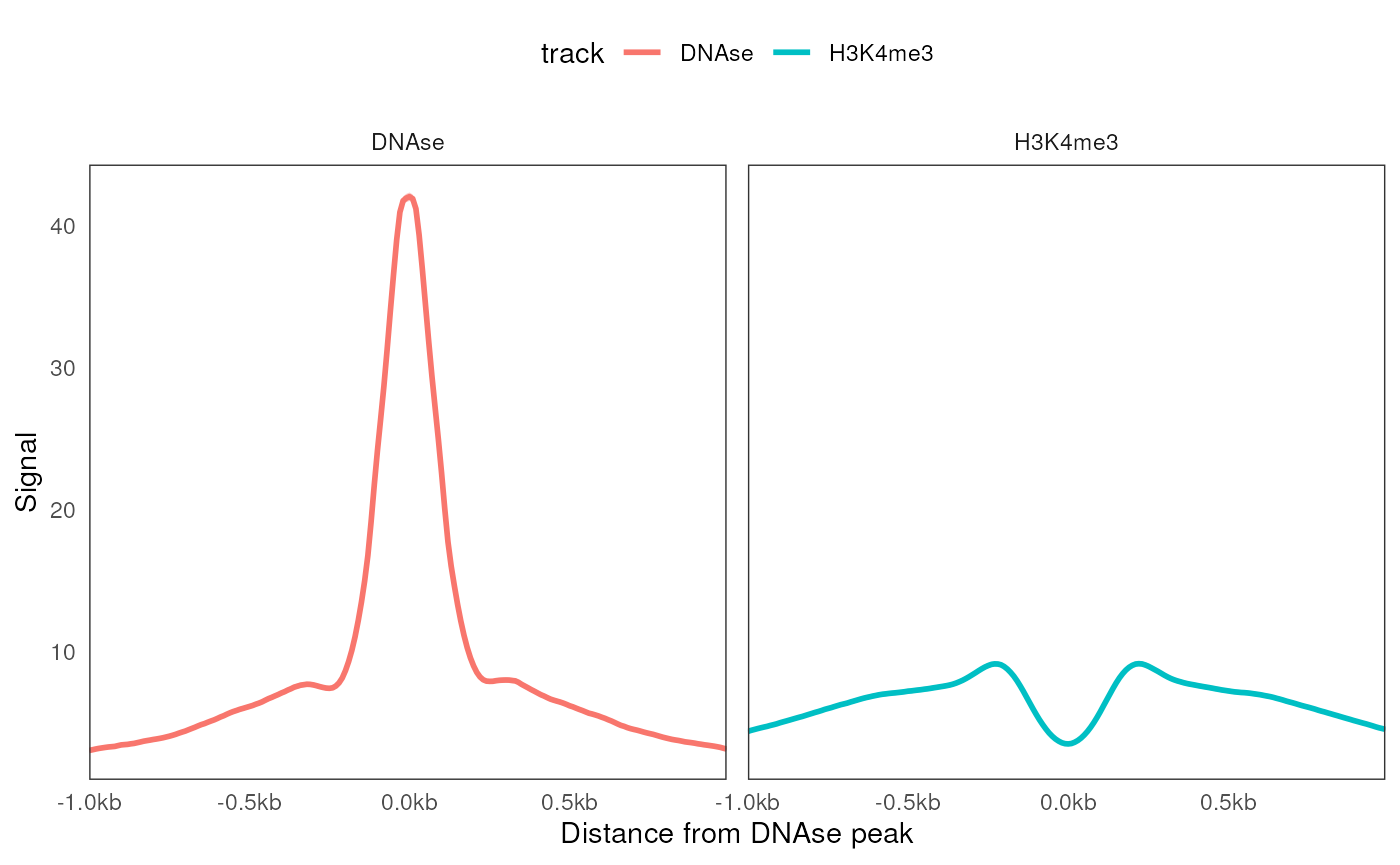
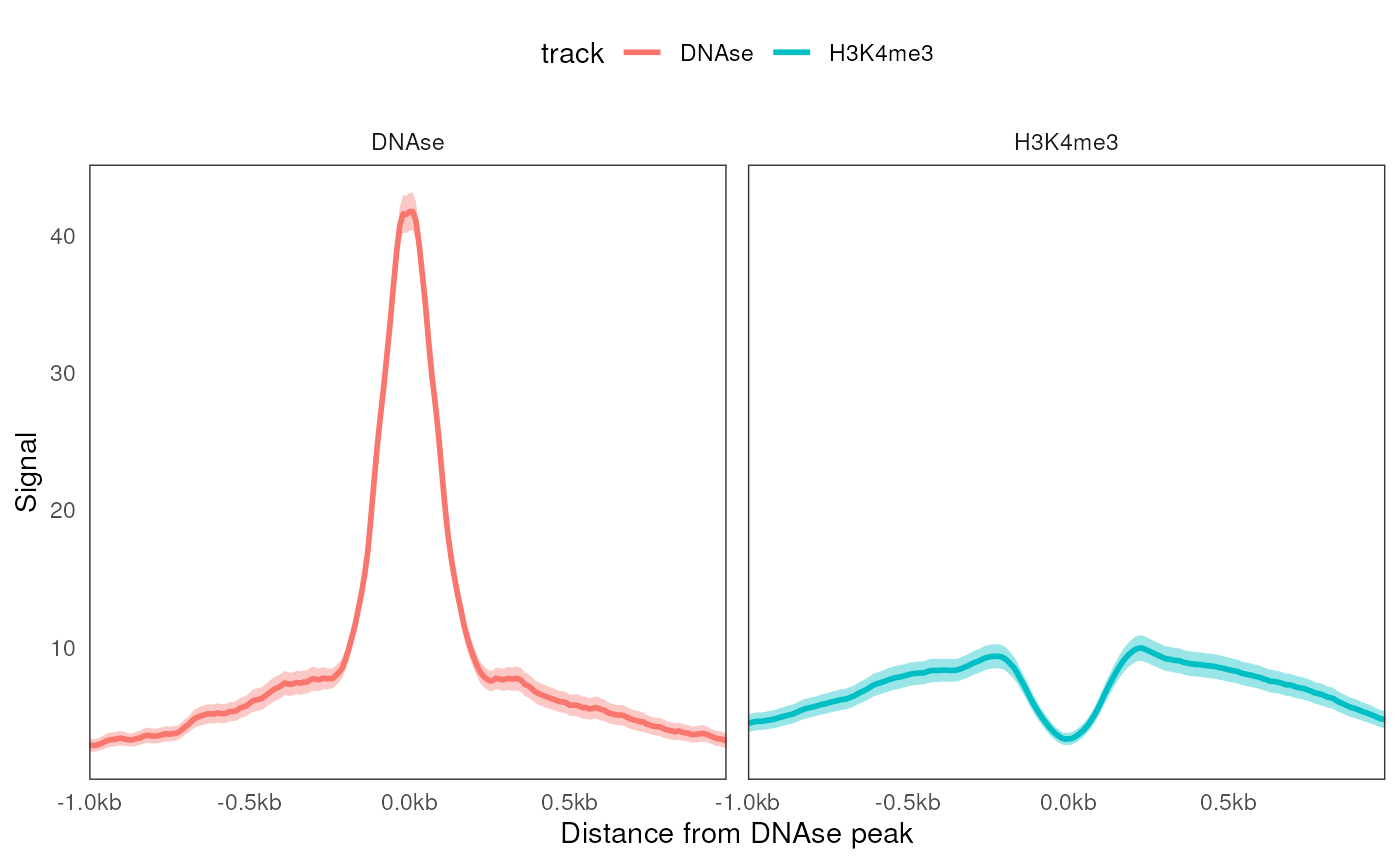
Deploying to gh-pages from @ js2264/Bioc2024tidyworkshop@06afe619553caf987c6d6c587669c05ac4f9fde3 🚀

diff --git a/articles/workshop.html b/articles/workshop.html
@@ -831,18 +831,18 @@ features<a class="anchor" aria-label="anchor" href="#creating-a-coverageexperime
 <span>    cohesin <span class="op">=</span> <span class="fu"><a href="https://rdrr.io/r/base/system.file.html" class="external-link">system.file</a></span><span class="op">(</span><span class="st">"extdata"</span>, <span class="st">"Scc1.bw"</span>, package <span class="op">=</span> <span class="st">"tidyCoverage"</span><span class="op">)</span>  </span>
 <span><span class="op">)</span><span class="op">)</span></span>
 <span><span class="va">features</span> <span class="op">&lt;-</span> <span class="fu"><a href="https://rdrr.io/pkg/GenomicRanges/man/GRangesList-class.html" class="external-link">GRangesList</a></span><span class="op">(</span></span>
-<span>    TSSs <span class="op">=</span> <span class="fu"><a href="https://rdrr.io/r/base/system.file.html" class="external-link">system.file</a></span><span class="op">(</span><span class="st">"extdata"</span>, <span class="st">"TSSs.bed"</span>, package <span class="op">=</span> <span class="st">"tidyCoverage"</span><span class="op">)</span> <span class="op">|&gt;</span> <span class="fu">import</span><span class="op">(</span><span class="op">)</span>, </span>
-<span>    TTSs <span class="op">=</span> <span class="fu"><a href="https://rdrr.io/r/base/system.file.html" class="external-link">system.file</a></span><span class="op">(</span><span class="st">"extdata"</span>, <span class="st">"TTSs.bed"</span>, package <span class="op">=</span> <span class="st">"Bioc2024tidyWorkshop"</span><span class="op">)</span> <span class="op">|&gt;</span> <span class="fu">import</span><span class="op">(</span><span class="op">)</span></span>
+<span>    TSSs <span class="op">=</span> <span class="fu"><a href="https://rdrr.io/r/base/system.file.html" class="external-link">system.file</a></span><span class="op">(</span><span class="st">"extdata"</span>, <span class="st">"TSSs.bed"</span>, package <span class="op">=</span> <span class="st">"tidyCoverage"</span><span class="op">)</span> <span class="op">|&gt;</span> <span class="fu">import</span><span class="op">(</span><span class="op">)</span> <span class="op">|&gt;</span> <span class="fu"><a href="https://rdrr.io/r/base/sample.html" class="external-link">sample</a></span><span class="op">(</span><span class="fl">2000</span><span class="op">)</span>, </span>
+<span>    TTSs <span class="op">=</span> <span class="fu"><a href="https://rdrr.io/r/base/system.file.html" class="external-link">system.file</a></span><span class="op">(</span><span class="st">"extdata"</span>, <span class="st">"TTSs.bed"</span>, package <span class="op">=</span> <span class="st">"Bioc2024tidyWorkshop"</span><span class="op">)</span> <span class="op">|&gt;</span> <span class="fu">import</span><span class="op">(</span><span class="op">)</span> <span class="op">|&gt;</span> <span class="fu"><a href="https://rdrr.io/r/base/sample.html" class="external-link">sample</a></span><span class="op">(</span><span class="fl">2000</span><span class="op">)</span></span>
 <span><span class="op">)</span></span>
 <span></span>
-<span><span class="va">ce</span> <span class="op">&lt;-</span> <span class="fu"><a href="https://rdrr.io/pkg/tidyCoverage/man/CoverageExperiment.html" class="external-link">CoverageExperiment</a></span><span class="op">(</span></span>
+<span><span class="va">ce2</span> <span class="op">&lt;-</span> <span class="fu"><a href="https://rdrr.io/pkg/tidyCoverage/man/CoverageExperiment.html" class="external-link">CoverageExperiment</a></span><span class="op">(</span></span>
 <span>    tracks <span class="op">=</span> <span class="va">tracks</span>, </span>
 <span>    features <span class="op">=</span> <span class="va">features</span>,</span>
-<span>    width <span class="op">=</span> <span class="fl">3000</span>, </span>
+<span>    width <span class="op">=</span> <span class="fl">2000</span>, </span>
 <span>    ignore.strand <span class="op">=</span> <span class="cn">FALSE</span></span>
 <span><span class="op">)</span></span>
 <span></span>
-<span><span class="va">ce</span></span>
+<span><span class="va">ce2</span></span>
 <span><span class="co">#&gt; class: CoverageExperiment </span></span>
 <span><span class="co">#&gt; dim: 2 2 </span></span>
 <span><span class="co">#&gt; metadata(0):</span></span>
@@ -851,15 +851,15 @@ features<a class="anchor" aria-label="anchor" href="#creating-a-coverageexperime
 <span><span class="co">#&gt; rowData names(2): features n</span></span>
 <span><span class="co">#&gt; colnames(2): mnase cohesin</span></span>
 <span><span class="co">#&gt; colData names(1): track</span></span>
-<span><span class="co">#&gt; width: 3000</span></span>
+<span><span class="co">#&gt; width: 2000</span></span>
 <span></span>
-<span><span class="fu"><a href="https://rdrr.io/pkg/SummarizedExperiment/man/SummarizedExperiment-class.html" class="external-link">assay</a></span><span class="op">(</span><span class="va">ce</span>, <span class="st">'coverage'</span><span class="op">)</span></span>
+<span><span class="fu"><a href="https://rdrr.io/pkg/SummarizedExperiment/man/SummarizedExperiment-class.html" class="external-link">assay</a></span><span class="op">(</span><span class="va">ce2</span>, <span class="st">'coverage'</span><span class="op">)</span></span>
 <span><span class="co">#&gt;      mnase           cohesin        </span></span>
-<span><span class="co">#&gt; TSSs numeric,5355000 numeric,5355000</span></span>
-<span><span class="co">#&gt; TTSs numeric,5346000 numeric,5346000</span></span>
+<span><span class="co">#&gt; TSSs numeric,1106000 numeric,1106000</span></span>
+<span><span class="co">#&gt; TTSs numeric,1074000 numeric,1074000</span></span>
 <span></span>
-<span><span class="fu"><a href="https://rdrr.io/r/base/dim.html" class="external-link">dim</a></span><span class="op">(</span><span class="fu"><a href="https://rdrr.io/pkg/SummarizedExperiment/man/SummarizedExperiment-class.html" class="external-link">assay</a></span><span class="op">(</span><span class="va">ce</span>, <span class="st">'coverage'</span><span class="op">)</span><span class="op">[[</span><span class="st">'TSSs'</span>, <span class="st">'mnase'</span><span class="op">]</span><span class="op">]</span><span class="op">)</span></span>
-<span><span class="co">#&gt; [1] 1785 3000</span></span></code></pre></div>
+<span><span class="fu"><a href="https://rdrr.io/r/base/dim.html" class="external-link">dim</a></span><span class="op">(</span><span class="fu"><a href="https://rdrr.io/pkg/SummarizedExperiment/man/SummarizedExperiment-class.html" class="external-link">assay</a></span><span class="op">(</span><span class="va">ce2</span>, <span class="st">'coverage'</span><span class="op">)</span><span class="op">[[</span><span class="st">'TSSs'</span>, <span class="st">'mnase'</span><span class="op">]</span><span class="op">]</span><span class="op">)</span></span>
+<span><span class="co">#&gt; [1]  553 2000</span></span></code></pre></div>
 </div>
 <div class="section level4">
 <h4 id="tidy-coverage-thats-right">Tidy coverage? That’s right!<a class="anchor" aria-label="anchor" href="#tidy-coverage-thats-right"></a>
@@ -873,95 +873,95 @@ features<a class="anchor" aria-label="anchor" href="#creating-a-coverageexperime
 <span><span class="co">#&gt; </span></span>
 <span><span class="co">#&gt;     bind_cols, bind_rows</span></span>
 <span></span>
-<span><span class="va">ce</span></span>
+<span><span class="va">ce2</span></span>
 <span><span class="co">#&gt; <span style="color: #949494;"># A CoverageExperiment-tibble abstraction: 4 × 7</span></span></span>
 <span><span class="co">#&gt; <span style="color: #949494;"># </span><span style="color: #555555;">features=2 | tracks=2 | assays=coverage</span></span></span>
-<span><span class="co">#&gt; <span style="color: #949494;"># </span><span style="color: #555555;">width=3000</span></span></span>
-<span><span class="co">#&gt;   .feature .sample coverage              track   features     n GRangesList</span></span>
-<span><span class="co">#&gt;   <span style="color: #949494; font-style: italic;">&lt;chr&gt;</span>    <span style="color: #949494; font-style: italic;">&lt;chr&gt;</span>   <span style="color: #949494; font-style: italic;">&lt;list&gt;</span>                <span style="color: #949494; font-style: italic;">&lt;chr&gt;</span>   <span style="color: #949494; font-style: italic;">&lt;chr&gt;</span>    <span style="color: #949494; font-style: italic;">&lt;int&gt;</span> <span style="color: #949494; font-style: italic;">&lt;list&gt;</span>     </span></span>
-<span><span class="co">#&gt; <span style="color: #BCBCBC;">1</span> TSSs     mnase   <span style="color: #949494;">&lt;dbl [1,785 × 3,000]&gt;</span> mnase   TSSs      <span style="text-decoration: underline;">1</span>785 <span style="color: #949494;">&lt;tibble&gt;</span>   </span></span>
-<span><span class="co">#&gt; <span style="color: #BCBCBC;">2</span> TTSs     mnase   <span style="color: #949494;">&lt;dbl [1,782 × 3,000]&gt;</span> mnase   TTSs      <span style="text-decoration: underline;">1</span>782 <span style="color: #949494;">&lt;tibble&gt;</span>   </span></span>
-<span><span class="co">#&gt; <span style="color: #BCBCBC;">3</span> TSSs     cohesin <span style="color: #949494;">&lt;dbl [1,785 × 3,000]&gt;</span> cohesin TSSs      <span style="text-decoration: underline;">1</span>785 <span style="color: #949494;">&lt;tibble&gt;</span>   </span></span>
-<span><span class="co">#&gt; <span style="color: #BCBCBC;">4</span> TTSs     cohesin <span style="color: #949494;">&lt;dbl [1,782 × 3,000]&gt;</span> cohesin TTSs      <span style="text-decoration: underline;">1</span>782 <span style="color: #949494;">&lt;tibble&gt;</span></span></span>
+<span><span class="co">#&gt; <span style="color: #949494;"># </span><span style="color: #555555;">width=2000</span></span></span>
+<span><span class="co">#&gt;   .feature .sample coverage            track   features     n GRangesList       </span></span>
+<span><span class="co">#&gt;   <span style="color: #949494; font-style: italic;">&lt;chr&gt;</span>    <span style="color: #949494; font-style: italic;">&lt;chr&gt;</span>   <span style="color: #949494; font-style: italic;">&lt;list&gt;</span>              <span style="color: #949494; font-style: italic;">&lt;chr&gt;</span>   <span style="color: #949494; font-style: italic;">&lt;chr&gt;</span>    <span style="color: #949494; font-style: italic;">&lt;int&gt;</span> <span style="color: #949494; font-style: italic;">&lt;list&gt;</span>            </span></span>
+<span><span class="co">#&gt; <span style="color: #BCBCBC;">1</span> TSSs     mnase   <span style="color: #949494;">&lt;dbl [553 × 2,000]&gt;</span> mnase   TSSs       553 <span style="color: #949494;">&lt;tibble [553 × 8]&gt;</span></span></span>
+<span><span class="co">#&gt; <span style="color: #BCBCBC;">2</span> TTSs     mnase   <span style="color: #949494;">&lt;dbl [537 × 2,000]&gt;</span> mnase   TTSs       537 <span style="color: #949494;">&lt;tibble [537 × 8]&gt;</span></span></span>
+<span><span class="co">#&gt; <span style="color: #BCBCBC;">3</span> TSSs     cohesin <span style="color: #949494;">&lt;dbl [553 × 2,000]&gt;</span> cohesin TSSs       553 <span style="color: #949494;">&lt;tibble [553 × 8]&gt;</span></span></span>
+<span><span class="co">#&gt; <span style="color: #BCBCBC;">4</span> TTSs     cohesin <span style="color: #949494;">&lt;dbl [537 × 2,000]&gt;</span> cohesin TTSs       537 <span style="color: #949494;">&lt;tibble [537 × 8]&gt;</span></span></span>
 <span></span>
-<span><span class="va">ce</span> <span class="op">|&gt;</span> <span class="fu"><a href="https://dplyr.tidyverse.org/reference/filter.html" class="external-link">filter</a></span><span class="op">(</span><span class="va">features</span> <span class="op">==</span> <span class="st">'TSSs'</span><span class="op">)</span></span>
+<span><span class="va">ce2</span> <span class="op">|&gt;</span> <span class="fu"><a href="https://dplyr.tidyverse.org/reference/filter.html" class="external-link">filter</a></span><span class="op">(</span><span class="va">features</span> <span class="op">==</span> <span class="st">'TSSs'</span><span class="op">)</span></span>
 <span><span class="co">#&gt; <span style="color: #949494;"># A CoverageExperiment-tibble abstraction: 2 × 7</span></span></span>
 <span><span class="co">#&gt; <span style="color: #949494;"># </span><span style="color: #555555;">features=1 | tracks=2 | assays=coverage</span></span></span>
-<span><span class="co">#&gt; <span style="color: #949494;"># </span><span style="color: #555555;">width=3000</span></span></span>
-<span><span class="co">#&gt;   .feature .sample coverage              track   features     n GRangesList</span></span>
-<span><span class="co">#&gt;   <span style="color: #949494; font-style: italic;">&lt;chr&gt;</span>    <span style="color: #949494; font-style: italic;">&lt;chr&gt;</span>   <span style="color: #949494; font-style: italic;">&lt;list&gt;</span>                <span style="color: #949494; font-style: italic;">&lt;chr&gt;</span>   <span style="color: #949494; font-style: italic;">&lt;chr&gt;</span>    <span style="color: #949494; font-style: italic;">&lt;int&gt;</span> <span style="color: #949494; font-style: italic;">&lt;list&gt;</span>     </span></span>
-<span><span class="co">#&gt; <span style="color: #BCBCBC;">1</span> TSSs     mnase   <span style="color: #949494;">&lt;dbl [1,785 × 3,000]&gt;</span> mnase   TSSs      <span style="text-decoration: underline;">1</span>785 <span style="color: #949494;">&lt;tibble&gt;</span>   </span></span>
-<span><span class="co">#&gt; <span style="color: #BCBCBC;">2</span> TSSs     cohesin <span style="color: #949494;">&lt;dbl [1,785 × 3,000]&gt;</span> cohesin TSSs      <span style="text-decoration: underline;">1</span>785 <span style="color: #949494;">&lt;tibble&gt;</span></span></span>
+<span><span class="co">#&gt; <span style="color: #949494;"># </span><span style="color: #555555;">width=2000</span></span></span>
+<span><span class="co">#&gt;   .feature .sample coverage            track   features     n GRangesList       </span></span>
+<span><span class="co">#&gt;   <span style="color: #949494; font-style: italic;">&lt;chr&gt;</span>    <span style="color: #949494; font-style: italic;">&lt;chr&gt;</span>   <span style="color: #949494; font-style: italic;">&lt;list&gt;</span>              <span style="color: #949494; font-style: italic;">&lt;chr&gt;</span>   <span style="color: #949494; font-style: italic;">&lt;chr&gt;</span>    <span style="color: #949494; font-style: italic;">&lt;int&gt;</span> <span style="color: #949494; font-style: italic;">&lt;list&gt;</span>            </span></span>
+<span><span class="co">#&gt; <span style="color: #BCBCBC;">1</span> TSSs     mnase   <span style="color: #949494;">&lt;dbl [553 × 2,000]&gt;</span> mnase   TSSs       553 <span style="color: #949494;">&lt;tibble [553 × 8]&gt;</span></span></span>
+<span><span class="co">#&gt; <span style="color: #BCBCBC;">2</span> TSSs     cohesin <span style="color: #949494;">&lt;dbl [553 × 2,000]&gt;</span> cohesin TSSs       553 <span style="color: #949494;">&lt;tibble [553 × 8]&gt;</span></span></span>
 <span></span>
-<span><span class="va">ce</span> <span class="op">|&gt;</span> <span class="fu"><a href="https://dplyr.tidyverse.org/reference/slice.html" class="external-link">slice</a></span><span class="op">(</span><span class="fl">2</span><span class="op">)</span></span>
+<span><span class="va">ce2</span> <span class="op">|&gt;</span> <span class="fu"><a href="https://dplyr.tidyverse.org/reference/slice.html" class="external-link">slice</a></span><span class="op">(</span><span class="fl">2</span><span class="op">)</span></span>
 <span><span class="co">#&gt; <span style="color: #949494;"># A CoverageExperiment-tibble abstraction: 1 × 7</span></span></span>
 <span><span class="co">#&gt; <span style="color: #949494;"># </span><span style="color: #555555;">features=1 | tracks=1 | assays=coverage</span></span></span>
-<span><span class="co">#&gt; <span style="color: #949494;"># </span><span style="color: #555555;">width=3000</span></span></span>
-<span><span class="co">#&gt;   .feature .sample coverage              track features     n GRangesList</span></span>
-<span><span class="co">#&gt;   <span style="color: #949494; font-style: italic;">&lt;chr&gt;</span>    <span style="color: #949494; font-style: italic;">&lt;chr&gt;</span>   <span style="color: #949494; font-style: italic;">&lt;list&gt;</span>                <span style="color: #949494; font-style: italic;">&lt;chr&gt;</span> <span style="color: #949494; font-style: italic;">&lt;chr&gt;</span>    <span style="color: #949494; font-style: italic;">&lt;int&gt;</span> <span style="color: #949494; font-style: italic;">&lt;list&gt;</span>     </span></span>
-<span><span class="co">#&gt; <span style="color: #BCBCBC;">1</span> TTSs     mnase   <span style="color: #949494;">&lt;dbl [1,782 × 3,000]&gt;</span> mnase TTSs      <span style="text-decoration: underline;">1</span>782 <span style="color: #949494;">&lt;tibble&gt;</span></span></span>
+<span><span class="co">#&gt; <span style="color: #949494;"># </span><span style="color: #555555;">width=2000</span></span></span>
+<span><span class="co">#&gt;   .feature .sample coverage            track features     n GRangesList       </span></span>
+<span><span class="co">#&gt;   <span style="color: #949494; font-style: italic;">&lt;chr&gt;</span>    <span style="color: #949494; font-style: italic;">&lt;chr&gt;</span>   <span style="color: #949494; font-style: italic;">&lt;list&gt;</span>              <span style="color: #949494; font-style: italic;">&lt;chr&gt;</span> <span style="color: #949494; font-style: italic;">&lt;chr&gt;</span>    <span style="color: #949494; font-style: italic;">&lt;int&gt;</span> <span style="color: #949494; font-style: italic;">&lt;list&gt;</span>            </span></span>
+<span><span class="co">#&gt; <span style="color: #BCBCBC;">1</span> TTSs     mnase   <span style="color: #949494;">&lt;dbl [537 × 2,000]&gt;</span> mnase TTSs       537 <span style="color: #949494;">&lt;tibble [537 × 8]&gt;</span></span></span>
 <span></span>
-<span><span class="va">ce</span> <span class="op">|&gt;</span> </span>
+<span><span class="va">ce2</span> <span class="op">|&gt;</span> </span>
 <span>    <span class="fu"><a href="https://dplyr.tidyverse.org/reference/filter.html" class="external-link">filter</a></span><span class="op">(</span><span class="va">track</span> <span class="op">==</span> <span class="st">'mnase'</span><span class="op">)</span> <span class="op">|&gt;</span> </span>
 <span>    <span class="fu"><a href="https://dplyr.tidyverse.org/reference/select.html" class="external-link">select</a></span><span class="op">(</span><span class="va">features</span>, <span class="va">n</span><span class="op">)</span></span>
 <span><span class="co">#&gt; tidySummarizedExperiment says: Key columns are missing. A data frame is returned for independent data analysis.</span></span>
 <span><span class="co">#&gt; <span style="color: #949494;"># A tibble: 2 × 2</span></span></span>
 <span><span class="co">#&gt;   features     n</span></span>
 <span><span class="co">#&gt;   <span style="color: #949494; font-style: italic;">&lt;chr&gt;</span>    <span style="color: #949494; font-style: italic;">&lt;int&gt;</span></span></span>
-<span><span class="co">#&gt; <span style="color: #BCBCBC;">1</span> TSSs      <span style="text-decoration: underline;">1</span>785</span></span>
-<span><span class="co">#&gt; <span style="color: #BCBCBC;">2</span> TTSs      <span style="text-decoration: underline;">1</span>782</span></span></code></pre></div>
+<span><span class="co">#&gt; <span style="color: #BCBCBC;">1</span> TSSs       553</span></span>
+<span><span class="co">#&gt; <span style="color: #BCBCBC;">2</span> TTSs       537</span></span></code></pre></div>
 </div>
 <div class="section level4">
 <h4 id="expand-or-aggregate">
 <code>expand()</code> or <code>aggregate()</code><a class="anchor" aria-label="anchor" href="#expand-or-aggregate"></a>
 </h4>
 <div class="sourceCode" id="cb19"><pre class="downlit sourceCode r">
-<code class="sourceCode R"><span><span class="va">tib</span> <span class="op">&lt;-</span> <span class="fu"><a href="https://tidyr.tidyverse.org/reference/expand.html" class="external-link">expand</a></span><span class="op">(</span><span class="va">ce</span><span class="op">)</span></span>
+<code class="sourceCode R"><span><span class="va">tib</span> <span class="op">&lt;-</span> <span class="fu"><a href="https://tidyr.tidyverse.org/reference/expand.html" class="external-link">expand</a></span><span class="op">(</span><span class="va">ce2</span><span class="op">)</span></span>
 <span></span>
 <span><span class="va">tib</span></span>
-<span><span class="co">#&gt; <span style="color: #949494;"># A tibble: 21,402,000 × 8</span></span></span>
-<span><span class="co">#&gt; <span style="color: #949494;"># Groups:   track, features, ranges [7,134]</span></span></span>
+<span><span class="co">#&gt; <span style="color: #949494;"># A tibble: 4,360,000 × 8</span></span></span>
+<span><span class="co">#&gt; <span style="color: #949494;"># Groups:   track, features, ranges [2,180]</span></span></span>
 <span><span class="co">#&gt;    track features chr   ranges             strand  coord coverage coord.scaled</span></span>
 <span><span class="co">#&gt;    <span style="color: #949494; font-style: italic;">&lt;chr&gt;</span> <span style="color: #949494; font-style: italic;">&lt;fct&gt;</span>    <span style="color: #949494; font-style: italic;">&lt;chr&gt;</span> <span style="color: #949494; font-style: italic;">&lt;chr&gt;</span>              <span style="color: #949494; font-style: italic;">&lt;chr&gt;</span>   <span style="color: #949494; font-style: italic;">&lt;dbl&gt;</span>    <span style="color: #949494; font-style: italic;">&lt;dbl&gt;</span>        <span style="color: #949494; font-style: italic;">&lt;dbl&gt;</span></span></span>
-<span><span class="co">#&gt; <span style="color: #BCBCBC;"> 1</span> mnase TSSs     II    II:235967-238966:- -      <span style="text-decoration: underline;">235</span>967    0.887        -<span style="color: #BB0000; text-decoration: underline;">1</span><span style="color: #BB0000;">500</span></span></span>
-<span><span class="co">#&gt; <span style="color: #BCBCBC;"> 2</span> mnase TSSs     II    II:235967-238966:- -      <span style="text-decoration: underline;">235</span>968    0.887        -<span style="color: #BB0000; text-decoration: underline;">1</span><span style="color: #BB0000;">499</span></span></span>
-<span><span class="co">#&gt; <span style="color: #BCBCBC;"> 3</span> mnase TSSs     II    II:235967-238966:- -      <span style="text-decoration: underline;">235</span>969    0.887        -<span style="color: #BB0000; text-decoration: underline;">1</span><span style="color: #BB0000;">498</span></span></span>
-<span><span class="co">#&gt; <span style="color: #BCBCBC;"> 4</span> mnase TSSs     II    II:235967-238966:- -      <span style="text-decoration: underline;">235</span>970    0.887        -<span style="color: #BB0000; text-decoration: underline;">1</span><span style="color: #BB0000;">497</span></span></span>
-<span><span class="co">#&gt; <span style="color: #BCBCBC;"> 5</span> mnase TSSs     II    II:235967-238966:- -      <span style="text-decoration: underline;">235</span>971    0.887        -<span style="color: #BB0000; text-decoration: underline;">1</span><span style="color: #BB0000;">496</span></span></span>
-<span><span class="co">#&gt; <span style="color: #BCBCBC;"> 6</span> mnase TSSs     II    II:235967-238966:- -      <span style="text-decoration: underline;">235</span>972    0.887        -<span style="color: #BB0000; text-decoration: underline;">1</span><span style="color: #BB0000;">495</span></span></span>
-<span><span class="co">#&gt; <span style="color: #BCBCBC;"> 7</span> mnase TSSs     II    II:235967-238966:- -      <span style="text-decoration: underline;">235</span>973    0.887        -<span style="color: #BB0000; text-decoration: underline;">1</span><span style="color: #BB0000;">494</span></span></span>
-<span><span class="co">#&gt; <span style="color: #BCBCBC;"> 8</span> mnase TSSs     II    II:235967-238966:- -      <span style="text-decoration: underline;">235</span>974    0.887        -<span style="color: #BB0000; text-decoration: underline;">1</span><span style="color: #BB0000;">493</span></span></span>
-<span><span class="co">#&gt; <span style="color: #BCBCBC;"> 9</span> mnase TSSs     II    II:235967-238966:- -      <span style="text-decoration: underline;">235</span>975    0.887        -<span style="color: #BB0000; text-decoration: underline;">1</span><span style="color: #BB0000;">492</span></span></span>
-<span><span class="co">#&gt; <span style="color: #BCBCBC;">10</span> mnase TSSs     II    II:235967-238966:- -      <span style="text-decoration: underline;">235</span>976    0.887        -<span style="color: #BB0000; text-decoration: underline;">1</span><span style="color: #BB0000;">491</span></span></span>
-<span><span class="co">#&gt; <span style="color: #949494;"># ℹ 21,401,990 more rows</span></span></span>
+<span><span class="co">#&gt; <span style="color: #BCBCBC;"> 1</span> mnase TSSs     IV    IV:302211-304210:+ +      <span style="text-decoration: underline;">302</span>211    0.936        -<span style="color: #BB0000; text-decoration: underline;">1</span><span style="color: #BB0000;">000</span></span></span>
+<span><span class="co">#&gt; <span style="color: #BCBCBC;"> 2</span> mnase TSSs     IV    IV:302211-304210:+ +      <span style="text-decoration: underline;">302</span>212    0.936         -<span style="color: #BB0000;">999</span></span></span>
+<span><span class="co">#&gt; <span style="color: #BCBCBC;"> 3</span> mnase TSSs     IV    IV:302211-304210:+ +      <span style="text-decoration: underline;">302</span>213    0.936         -<span style="color: #BB0000;">998</span></span></span>
+<span><span class="co">#&gt; <span style="color: #BCBCBC;"> 4</span> mnase TSSs     IV    IV:302211-304210:+ +      <span style="text-decoration: underline;">302</span>214    0.936         -<span style="color: #BB0000;">997</span></span></span>
+<span><span class="co">#&gt; <span style="color: #BCBCBC;"> 5</span> mnase TSSs     IV    IV:302211-304210:+ +      <span style="text-decoration: underline;">302</span>215    0.936         -<span style="color: #BB0000;">996</span></span></span>
+<span><span class="co">#&gt; <span style="color: #BCBCBC;"> 6</span> mnase TSSs     IV    IV:302211-304210:+ +      <span style="text-decoration: underline;">302</span>216    0.936         -<span style="color: #BB0000;">995</span></span></span>
+<span><span class="co">#&gt; <span style="color: #BCBCBC;"> 7</span> mnase TSSs     IV    IV:302211-304210:+ +      <span style="text-decoration: underline;">302</span>217    0.936         -<span style="color: #BB0000;">994</span></span></span>
+<span><span class="co">#&gt; <span style="color: #BCBCBC;"> 8</span> mnase TSSs     IV    IV:302211-304210:+ +      <span style="text-decoration: underline;">302</span>218    0.936         -<span style="color: #BB0000;">993</span></span></span>
+<span><span class="co">#&gt; <span style="color: #BCBCBC;"> 9</span> mnase TSSs     IV    IV:302211-304210:+ +      <span style="text-decoration: underline;">302</span>219    0.936         -<span style="color: #BB0000;">992</span></span></span>
+<span><span class="co">#&gt; <span style="color: #BCBCBC;">10</span> mnase TSSs     IV    IV:302211-304210:+ +      <span style="text-decoration: underline;">302</span>220    0.936         -<span style="color: #BB0000;">991</span></span></span>
+<span><span class="co">#&gt; <span style="color: #949494;"># ℹ 4,359,990 more rows</span></span></span>
 <span></span>
-<span><span class="va">ac</span> <span class="op">&lt;-</span> <span class="fu"><a href="https://rdrr.io/r/stats/aggregate.html" class="external-link">aggregate</a></span><span class="op">(</span><span class="va">ce</span><span class="op">)</span></span>
+<span><span class="va">ac2</span> <span class="op">&lt;-</span> <span class="fu"><a href="https://rdrr.io/r/stats/aggregate.html" class="external-link">aggregate</a></span><span class="op">(</span><span class="va">ce2</span><span class="op">)</span></span>
 <span></span>
-<span><span class="va">ac</span></span>
-<span><span class="co">#&gt; <span style="color: #949494;"># An AggregatedCoverage-tibble abstraction: 12000 × 13</span></span></span>
+<span><span class="va">ac2</span></span>
+<span><span class="co">#&gt; <span style="color: #949494;"># An AggregatedCoverage-tibble abstraction: 8000 × 13</span></span></span>
 <span><span class="co">#&gt; <span style="color: #949494;"># </span><span style="color: #555555;">features=2 | tracks=2 | assays=mean, median, min, max, sd, se, ci_low,</span></span></span>
 <span><span class="co">#&gt; # <span style="color: #555555;">  ci_high</span></span></span>
-<span><span class="co">#&gt; <span style="color: #949494;"># </span><span style="color: #555555;">width=3000 | binning=1</span></span></span>
+<span><span class="co">#&gt; <span style="color: #949494;"># </span><span style="color: #555555;">width=2000 | binning=1</span></span></span>
 <span><span class="co">#&gt;    .sample .feature track features coord  mean median   min   max    sd     se</span></span>
 <span><span class="co">#&gt;    <span style="color: #949494; font-style: italic;">&lt;chr&gt;</span>   <span style="color: #949494; font-style: italic;">&lt;fct&gt;</span>    <span style="color: #949494; font-style: italic;">&lt;chr&gt;</span> <span style="color: #949494; font-style: italic;">&lt;fct&gt;</span>    <span style="color: #949494; font-style: italic;">&lt;dbl&gt;</span> <span style="color: #949494; font-style: italic;">&lt;dbl&gt;</span>  <span style="color: #949494; font-style: italic;">&lt;dbl&gt;</span> <span style="color: #949494; font-style: italic;">&lt;dbl&gt;</span> <span style="color: #949494; font-style: italic;">&lt;dbl&gt;</span> <span style="color: #949494; font-style: italic;">&lt;dbl&gt;</span>  <span style="color: #949494; font-style: italic;">&lt;dbl&gt;</span></span></span>
-<span><span class="co">#&gt; <span style="color: #BCBCBC;"> 1</span> mnase   TSSs     mnase TSSs     -<span style="color: #BB0000; text-decoration: underline;">1</span><span style="color: #BB0000;">500</span>  3.03   2.93     0  9.01  1.84 0.043<span style="text-decoration: underline;">6</span></span></span>
-<span><span class="co">#&gt; <span style="color: #BCBCBC;"> 2</span> mnase   TSSs     mnase TSSs     -<span style="color: #BB0000; text-decoration: underline;">1</span><span style="color: #BB0000;">499</span>  3.01   2.90     0  9.01  1.84 0.043<span style="text-decoration: underline;">5</span></span></span>
-<span><span class="co">#&gt; <span style="color: #BCBCBC;"> 3</span> mnase   TSSs     mnase TSSs     -<span style="color: #BB0000; text-decoration: underline;">1</span><span style="color: #BB0000;">498</span>  3.01   2.90     0  9.01  1.83 0.043<span style="text-decoration: underline;">4</span></span></span>
-<span><span class="co">#&gt; <span style="color: #BCBCBC;"> 4</span> mnase   TSSs     mnase TSSs     -<span style="color: #BB0000; text-decoration: underline;">1</span><span style="color: #BB0000;">497</span>  3.00   2.89     0  9.01  1.83 0.043<span style="text-decoration: underline;">2</span></span></span>
-<span><span class="co">#&gt; <span style="color: #BCBCBC;"> 5</span> mnase   TSSs     mnase TSSs     -<span style="color: #BB0000; text-decoration: underline;">1</span><span style="color: #BB0000;">496</span>  3.00   2.89     0  9.01  1.83 0.043<span style="text-decoration: underline;">3</span></span></span>
-<span><span class="co">#&gt; <span style="color: #BCBCBC;"> 6</span> mnase   TSSs     mnase TSSs     -<span style="color: #BB0000; text-decoration: underline;">1</span><span style="color: #BB0000;">495</span>  3.00   2.90     0  9.01  1.83 0.043<span style="text-decoration: underline;">3</span></span></span>
-<span><span class="co">#&gt; <span style="color: #BCBCBC;"> 7</span> mnase   TSSs     mnase TSSs     -<span style="color: #BB0000; text-decoration: underline;">1</span><span style="color: #BB0000;">494</span>  3.00   2.90     0  9.01  1.82 0.043<span style="text-decoration: underline;">2</span></span></span>
-<span><span class="co">#&gt; <span style="color: #BCBCBC;"> 8</span> mnase   TSSs     mnase TSSs     -<span style="color: #BB0000; text-decoration: underline;">1</span><span style="color: #BB0000;">493</span>  3.01   2.91     0  9.01  1.82 0.043<span style="text-decoration: underline;">1</span></span></span>
-<span><span class="co">#&gt; <span style="color: #BCBCBC;"> 9</span> mnase   TSSs     mnase TSSs     -<span style="color: #BB0000; text-decoration: underline;">1</span><span style="color: #BB0000;">492</span>  3.01   2.91     0  9.01  1.82 0.043<span style="text-decoration: underline;">1</span></span></span>
-<span><span class="co">#&gt; <span style="color: #BCBCBC;">10</span> mnase   TSSs     mnase TSSs     -<span style="color: #BB0000; text-decoration: underline;">1</span><span style="color: #BB0000;">491</span>  3.00   2.90     0  9.01  1.82 0.043<span style="text-decoration: underline;">0</span></span></span>
-<span><span class="co">#&gt; <span style="color: #949494;"># ℹ 11,990 more rows</span></span></span>
+<span><span class="co">#&gt; <span style="color: #BCBCBC;"> 1</span> mnase   TSSs     mnase TSSs     -<span style="color: #BB0000; text-decoration: underline;">1</span><span style="color: #BB0000;">000</span>  3.12   3.02     0  8.79  1.86 0.078<span style="text-decoration: underline;">9</span></span></span>
+<span><span class="co">#&gt; <span style="color: #BCBCBC;"> 2</span> mnase   TSSs     mnase TSSs      -<span style="color: #BB0000;">999</span>  3.13   3.02     0  8.79  1.86 0.079<span style="text-decoration: underline;">0</span></span></span>
+<span><span class="co">#&gt; <span style="color: #BCBCBC;"> 3</span> mnase   TSSs     mnase TSSs      -<span style="color: #BB0000;">998</span>  3.12   3.00     0  8.79  1.86 0.079<span style="text-decoration: underline;">1</span></span></span>
+<span><span class="co">#&gt; <span style="color: #BCBCBC;"> 4</span> mnase   TSSs     mnase TSSs      -<span style="color: #BB0000;">997</span>  3.14   3.02     0  8.79  1.87 0.079<span style="text-decoration: underline;">4</span></span></span>
+<span><span class="co">#&gt; <span style="color: #BCBCBC;"> 5</span> mnase   TSSs     mnase TSSs      -<span style="color: #BB0000;">996</span>  3.14   3.02     0  8.79  1.86 0.079<span style="text-decoration: underline;">1</span></span></span>
+<span><span class="co">#&gt; <span style="color: #BCBCBC;"> 6</span> mnase   TSSs     mnase TSSs      -<span style="color: #BB0000;">995</span>  3.12   3.02     0  8.79  1.85 0.078<span style="text-decoration: underline;">7</span></span></span>
+<span><span class="co">#&gt; <span style="color: #BCBCBC;"> 7</span> mnase   TSSs     mnase TSSs      -<span style="color: #BB0000;">994</span>  3.12   3.00     0  8.79  1.85 0.078<span style="text-decoration: underline;">6</span></span></span>
+<span><span class="co">#&gt; <span style="color: #BCBCBC;"> 8</span> mnase   TSSs     mnase TSSs      -<span style="color: #BB0000;">993</span>  3.12   3.00     0  8.79  1.86 0.078<span style="text-decoration: underline;">9</span></span></span>
+<span><span class="co">#&gt; <span style="color: #BCBCBC;"> 9</span> mnase   TSSs     mnase TSSs      -<span style="color: #BB0000;">992</span>  3.09   2.98     0  8.79  1.84 0.078<span style="text-decoration: underline;">3</span></span></span>
+<span><span class="co">#&gt; <span style="color: #BCBCBC;">10</span> mnase   TSSs     mnase TSSs      -<span style="color: #BB0000;">991</span>  3.11   2.99     0  8.79  1.84 0.078<span style="text-decoration: underline;">3</span></span></span>
+<span><span class="co">#&gt; <span style="color: #949494;"># ℹ 7,990 more rows</span></span></span>
 <span><span class="co">#&gt; <span style="color: #949494;"># ℹ 2 more variables: ci_low &lt;dbl&gt;, ci_high &lt;dbl&gt;</span></span></span></code></pre></div>
 </div>
 <div class="section level4">
 <h4 id="example-visualizing-aggregated-coverage">Example: visualizing aggregated coverage<a class="anchor" aria-label="anchor" href="#example-visualizing-aggregated-coverage"></a>
 </h4>
 <div class="sourceCode" id="cb20"><pre class="downlit sourceCode r">
-<code class="sourceCode R"><span><span class="va">ac</span> <span class="op">|&gt;</span></span>
+<code class="sourceCode R"><span><span class="va">ac2</span> <span class="op">|&gt;</span></span>
 <span>    <span class="fu"><a href="https://ggplot2.tidyverse.org/reference/ggplot.html" class="external-link">ggplot</a></span><span class="op">(</span><span class="fu"><a href="https://ggplot2.tidyverse.org/reference/aes.html" class="external-link">aes</a></span><span class="op">(</span>x <span class="op">=</span> <span class="va">coord</span>, y <span class="op">=</span> <span class="va">mean</span><span class="op">)</span><span class="op">)</span> <span class="op">+</span> </span>
 <span>    <span class="fu"><a href="https://rdrr.io/pkg/tidyCoverage/man/ggplot-tidyCoverage.html" class="external-link">geom_aggrcoverage</a></span><span class="op">(</span><span class="fu"><a href="https://ggplot2.tidyverse.org/reference/aes.html" class="external-link">aes</a></span><span class="op">(</span>col <span class="op">=</span> <span class="va">track</span><span class="op">)</span><span class="op">)</span> <span class="op">+</span> </span>
 <span>    <span class="fu"><a href="https://ggplot2.tidyverse.org/reference/facet_grid.html" class="external-link">facet_grid</a></span><span class="op">(</span><span class="va">track</span> <span class="op">~</span> <span class="va">features</span>, scales <span class="op">=</span> <span class="st">"free"</span><span class="op">)</span> <span class="op">+</span> </span>
@@ -1006,7 +1006,7 @@ elements<a class="anchor" aria-label="anchor" href="#real-world-use-case-studyin
 <h4 id="plotting-coverage-data-over-several-loci">Plotting coverage data over several loci<a class="anchor" aria-label="anchor" href="#plotting-coverage-data-over-several-loci"></a>
 </h4>
 <div class="sourceCode" id="cb22"><pre class="downlit sourceCode r">
-<code class="sourceCode R"><span><span class="va">ce</span> <span class="op">&lt;-</span> <span class="fu"><a href="https://rdrr.io/pkg/tidyCoverage/man/CoverageExperiment.html" class="external-link">CoverageExperiment</a></span><span class="op">(</span></span>
+<code class="sourceCode R"><span><span class="va">ce3</span> <span class="op">&lt;-</span> <span class="fu"><a href="https://rdrr.io/pkg/tidyCoverage/man/CoverageExperiment.html" class="external-link">CoverageExperiment</a></span><span class="op">(</span></span>
 <span>    <span class="va">bws</span>, </span>
 <span>    <span class="fu"><a href="https://rdrr.io/r/base/list.html" class="external-link">list</a></span><span class="op">(</span></span>
 <span>        ccno <span class="op">=</span> <span class="fu"><a href="https://rdrr.io/pkg/GenomicRanges/man/GRanges-class.html" class="external-link">GRanges</a></span><span class="op">(</span><span class="st">"chr5:55220001-55235000"</span><span class="op">)</span>,</span>
@@ -1014,7 +1014,7 @@ elements<a class="anchor" aria-label="anchor" href="#real-world-use-case-studyin
 <span>    <span class="op">)</span>, </span>
 <span>    window <span class="op">=</span> <span class="fl">50</span></span>
 <span><span class="op">)</span></span>
-<span><span class="fu"><a href="https://tidyr.tidyverse.org/reference/expand.html" class="external-link">expand</a></span><span class="op">(</span><span class="va">ce</span><span class="op">)</span> <span class="op">|&gt;</span> </span>
+<span><span class="fu"><a href="https://tidyr.tidyverse.org/reference/expand.html" class="external-link">expand</a></span><span class="op">(</span><span class="va">ce3</span><span class="op">)</span> <span class="op">|&gt;</span> </span>
 <span>    <span class="fu"><a href="https://dplyr.tidyverse.org/reference/mutate.html" class="external-link">mutate</a></span><span class="op">(</span>coverage <span class="op">=</span> <span class="fu">scales</span><span class="fu">::</span><span class="fu"><a href="https://scales.r-lib.org/reference/oob.html" class="external-link">oob_squish</a></span><span class="op">(</span><span class="va">coverage</span>, <span class="fu"><a href="https://rdrr.io/r/base/c.html" class="external-link">c</a></span><span class="op">(</span><span class="fl">0</span>, <span class="fl">10</span><span class="op">)</span><span class="op">)</span><span class="op">)</span> <span class="op">|&gt;</span> </span>
 <span>    <span class="fu"><a href="https://ggplot2.tidyverse.org/reference/ggplot.html" class="external-link">ggplot</a></span><span class="op">(</span><span class="op">)</span> <span class="op">+</span></span>
 <span>    <span class="fu"><a href="https://rdrr.io/pkg/tidyCoverage/man/ggplot-tidyCoverage.html" class="external-link">geom_coverage</a></span><span class="op">(</span><span class="fu"><a href="https://ggplot2.tidyverse.org/reference/aes.html" class="external-link">aes</a></span><span class="op">(</span>fill <span class="op">=</span> <span class="va">track</span><span class="op">)</span>, unit <span class="op">=</span> <span class="st">'Mb'</span><span class="op">)</span> <span class="op">+</span> </span>
@@ -1025,16 +1025,16 @@ elements<a class="anchor" aria-label="anchor" href="#real-world-use-case-studyin
 <h4 id="import-dnase-peaks-from-encode">Import DNase peaks from ENCODE<a class="anchor" aria-label="anchor" href="#import-dnase-peaks-from-encode"></a>
 </h4>
 <div class="sourceCode" id="cb23"><pre class="downlit sourceCode r">
-<code class="sourceCode R"><span><span class="va">features</span> <span class="op">&lt;-</span> <span class="fu"><a href="https://rdrr.io/r/base/list.html" class="external-link">list</a></span><span class="op">(</span>DNase <span class="op">=</span> <span class="va">ah</span><span class="op">[[</span><span class="st">'AH30077'</span><span class="op">]</span><span class="op">]</span> <span class="op">|&gt;</span> <span class="fu"><a href="https://dplyr.tidyverse.org/reference/filter.html" class="external-link">filter</a></span><span class="op">(</span><span class="va">zScore</span> <span class="op">&gt;</span> <span class="fl">100</span><span class="op">)</span><span class="op">)</span></span>
+<code class="sourceCode R"><span><span class="va">features</span> <span class="op">&lt;-</span> <span class="fu"><a href="https://rdrr.io/r/base/list.html" class="external-link">list</a></span><span class="op">(</span>DNase <span class="op">=</span> <span class="va">ah</span><span class="op">[[</span><span class="st">'AH30077'</span><span class="op">]</span><span class="op">]</span> <span class="op">|&gt;</span> <span class="fu"><a href="https://dplyr.tidyverse.org/reference/filter.html" class="external-link">filter</a></span><span class="op">(</span><span class="va">zScore</span> <span class="op">&gt;</span> <span class="fl">100</span><span class="op">)</span> <span class="op">|&gt;</span> <span class="fu"><a href="https://rdrr.io/r/base/sample.html" class="external-link">sample</a></span><span class="op">(</span><span class="fl">1000</span><span class="op">)</span><span class="op">)</span></span>
 <span><span class="co">#&gt; loading from cache</span></span></code></pre></div>
 </div>
 <div class="section level4">
 <h4 id="generating-coverage-aggregates-over-dnase-peak">Generating coverage aggregates over DNAse peak<a class="anchor" aria-label="anchor" href="#generating-coverage-aggregates-over-dnase-peak"></a>
 </h4>
 <div class="sourceCode" id="cb24"><pre class="downlit sourceCode r">
-<code class="sourceCode R"><span><span class="va">ce</span> <span class="op">&lt;-</span> <span class="fu"><a href="https://rdrr.io/pkg/tidyCoverage/man/CoverageExperiment.html" class="external-link">CoverageExperiment</a></span><span class="op">(</span><span class="va">bws</span>, <span class="va">features</span>, width <span class="op">=</span> <span class="fl">2000</span>, window <span class="op">=</span> <span class="fl">10</span><span class="op">)</span></span></code></pre></div>
+<code class="sourceCode R"><span><span class="va">ce4</span> <span class="op">&lt;-</span> <span class="fu"><a href="https://rdrr.io/pkg/tidyCoverage/man/CoverageExperiment.html" class="external-link">CoverageExperiment</a></span><span class="op">(</span><span class="va">bws</span>, <span class="va">features</span>, width <span class="op">=</span> <span class="fl">2000</span>, window <span class="op">=</span> <span class="fl">10</span><span class="op">)</span></span></code></pre></div>
 <div class="sourceCode" id="cb25"><pre class="downlit sourceCode r">
-<code class="sourceCode R"><span><span class="fu"><a href="https://rdrr.io/r/stats/aggregate.html" class="external-link">aggregate</a></span><span class="op">(</span><span class="va">ce</span><span class="op">)</span> <span class="op">|&gt;</span> </span>
+<code class="sourceCode R"><span><span class="fu"><a href="https://rdrr.io/r/stats/aggregate.html" class="external-link">aggregate</a></span><span class="op">(</span><span class="va">ce4</span><span class="op">)</span> <span class="op">|&gt;</span> </span>
 <span>    <span class="fu"><a href="https://ggplot2.tidyverse.org/reference/ggplot.html" class="external-link">ggplot</a></span><span class="op">(</span><span class="fu"><a href="https://ggplot2.tidyverse.org/reference/aes.html" class="external-link">aes</a></span><span class="op">(</span>x <span class="op">=</span> <span class="va">coord</span>, y <span class="op">=</span> <span class="va">mean</span><span class="op">)</span><span class="op">)</span> <span class="op">+</span> </span>
 <span>    <span class="fu"><a href="https://rdrr.io/pkg/tidyCoverage/man/ggplot-tidyCoverage.html" class="external-link">geom_aggrcoverage</a></span><span class="op">(</span><span class="fu"><a href="https://ggplot2.tidyverse.org/reference/aes.html" class="external-link">aes</a></span><span class="op">(</span>col <span class="op">=</span> <span class="va">track</span><span class="op">)</span><span class="op">)</span> <span class="op">+</span> </span>
 <span>    <span class="fu"><a href="https://ggplot2.tidyverse.org/reference/facet_wrap.html" class="external-link">facet_wrap</a></span><span class="op">(</span><span class="op">~</span><span class="va">track</span><span class="op">)</span> <span class="op">+</span> </span>
